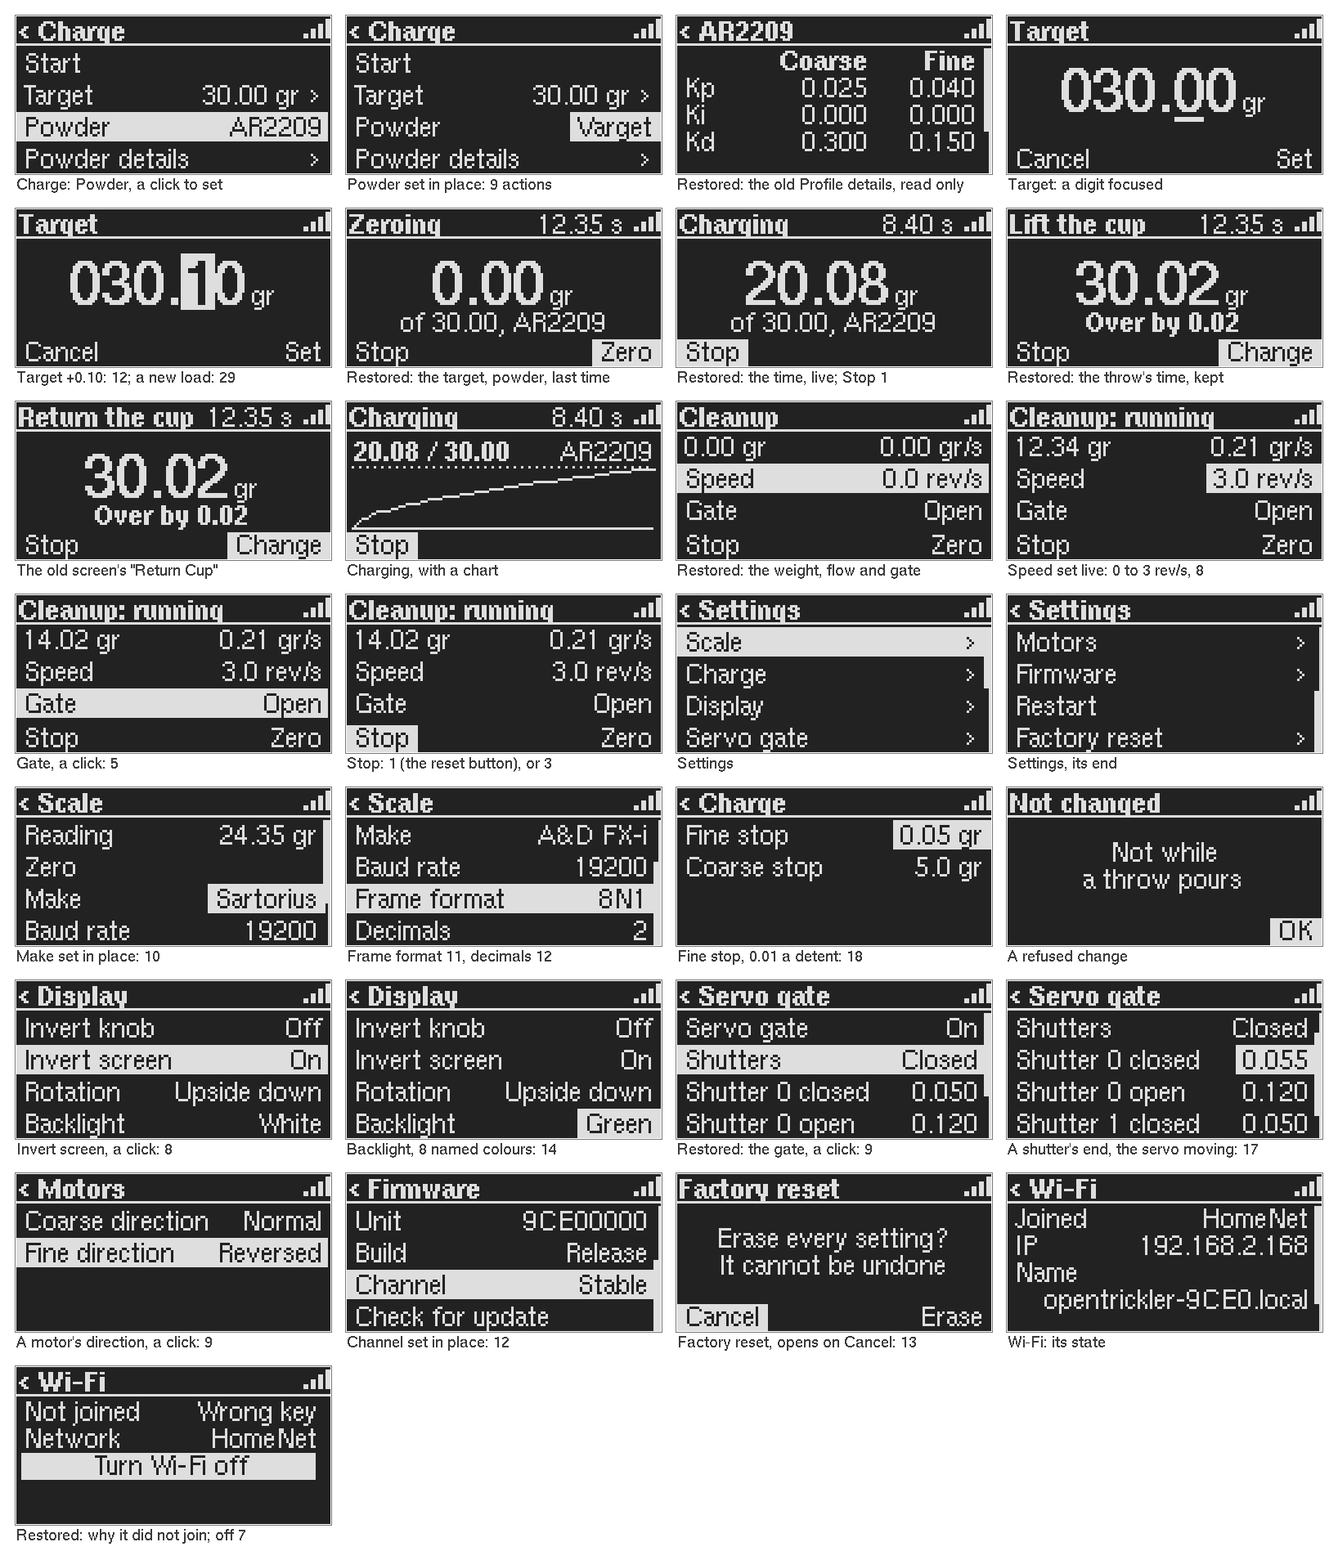
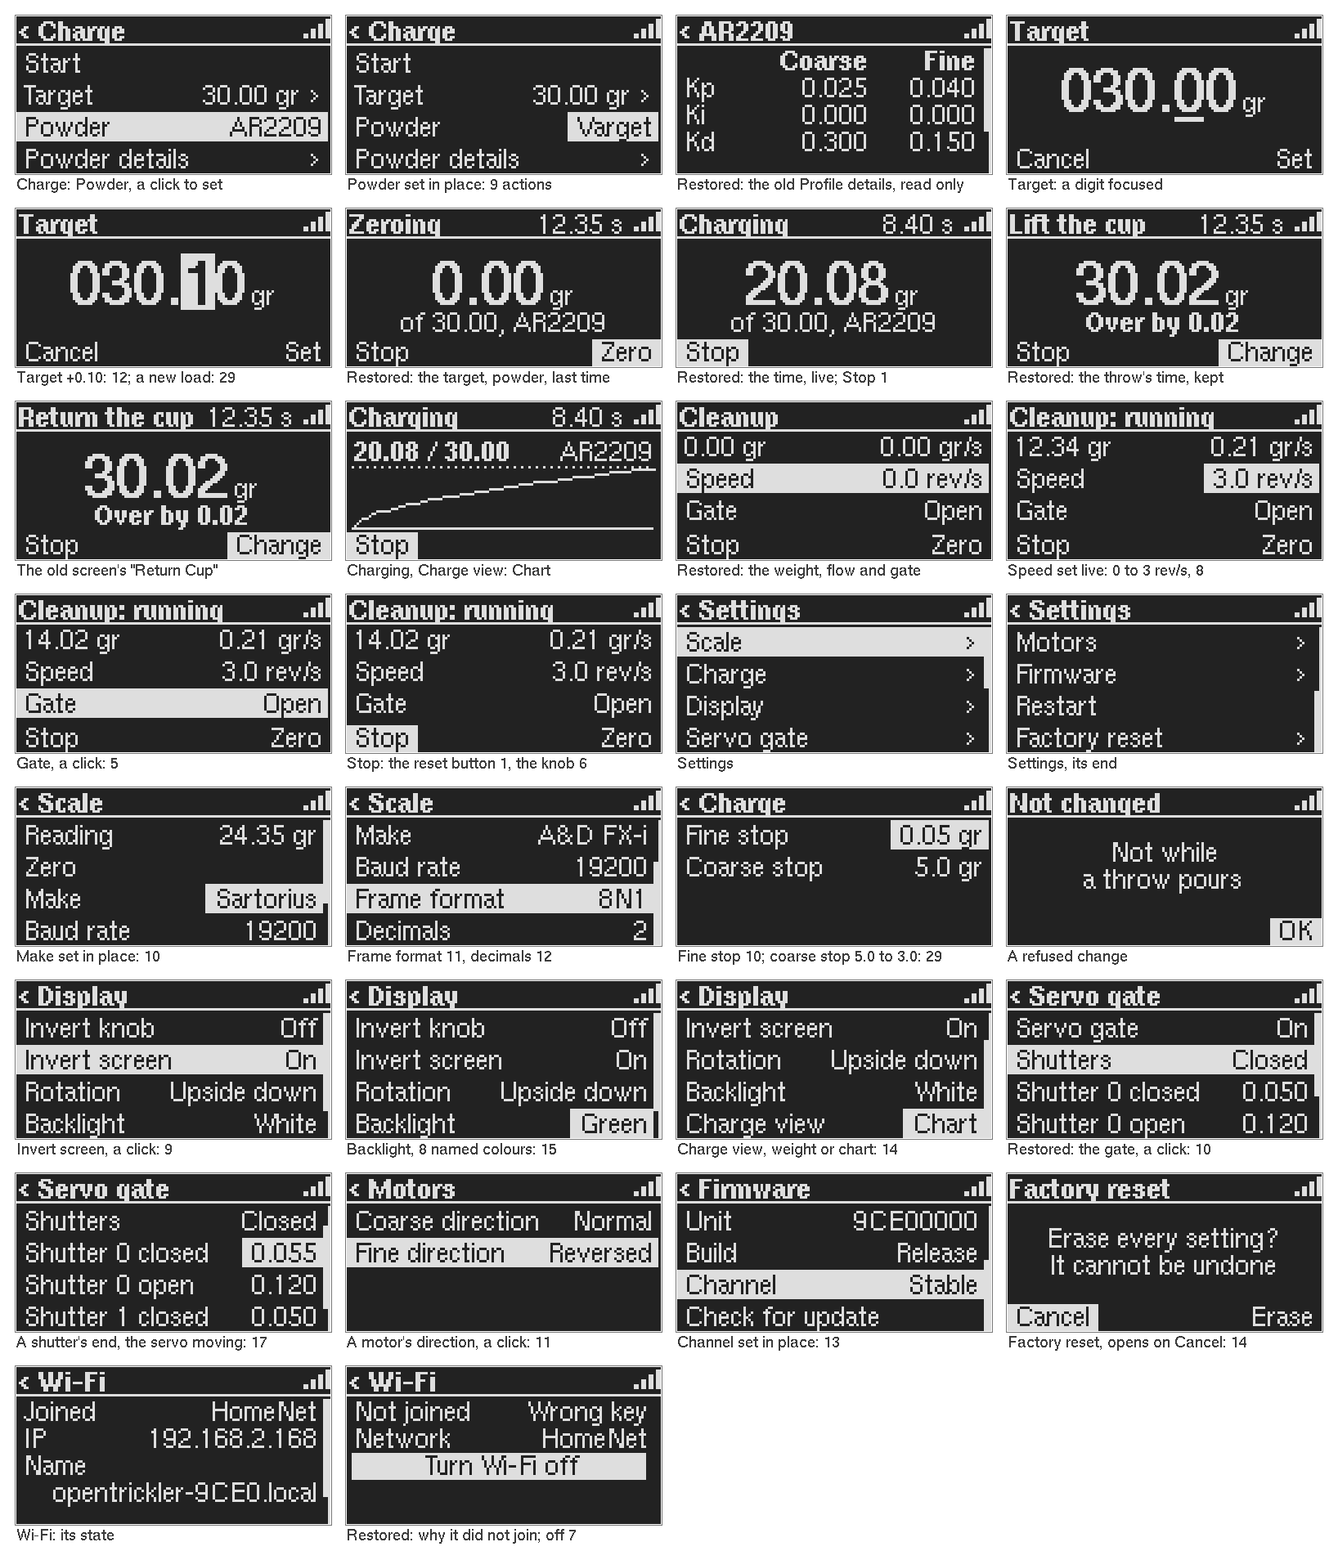
ADR-010: the chart as Settings > Display > Charge view; costs recounted on the mock's tree

Changed region(s): [[0.0, 0.6184, 0.9976, 0.9895], [0.1247, 0.6494, 0.2494, 0.7421]]

diff --git a/tools/ui_mock/knob_cost.py b/tools/ui_mock/knob_cost.py
@@ -59,48 +59,76 @@ def edit_text(text):
 
 # (what, need, method, the change, path to its row, edit cost)
 # need: S a session at the bench; W making the unit work without the web; T tuning or building, set once with the
-# web's data (or by ADR-009's tuning)
-MAIN_SETTINGS = 3
+# web's data (or by ADR-009's tuning). The paths follow the mock's tree (parity_12864.py), each page's rows in order:
+MAIN = {"Charge": 0, "Cleanup": 1, "Wi-Fi": 2, "Settings": 3}
+CHARGE = {"Start": 0, "Target": 1, "Powder": 2, "Powder details": 3}
+CLEANUP = {"Speed": 0, "Gate": 1, "Stop": 2, "Zero": 3}         # behind the cup's check, its Start a click
+SETTINGS = {"Scale": 0, "Charge": 1, "Display": 2, "Servo gate": 3, "Motors": 4, "Firmware": 5, "Restart": 6,
+            "Factory reset": 7}
+SCALE = {"Zero": 0, "Make": 1, "Baud rate": 2, "Frame format": 3, "Decimals": 4}      # its Reading is read only
+CHARGE_SETTINGS = {"Fine stop": 0, "Coarse stop": 1}
+DISPLAY = {"Invert knob": 0, "Invert screen": 1, "Rotation": 2, "Backlight": 3, "Charge view": 4}
+GATE = {"Servo gate": 0, "Shutters": 1, "Shutter 0 closed": 2}
+MOTORS = {"Coarse direction": 0, "Fine direction": 1}
+FIRMWARE = {"Channel": 0, "Check for update": 1}                # its facts are read only
+WIFI_OFF = 3                                                    # Wi-Fi's card: the turns to its button at the end
+S = MAIN["Settings"]
+
+
+def settings(page, row=None):
+    return [S, SETTINGS[page]] + ([] if row is None else [row])
+
+
 ROWS = [
-    ("Target, a small change", "S", "digits", "30.00 to 30.10", [0, 1], edit_digits("03000", "03010")),
-    ("Target, a new load", "S", "digits", "24.35 to 42.00", [0, 1], edit_digits("02435", "04200")),
-    ("Powder (8 profiles)", "S", "choice", "1 to 5", [0, 2], edit_choice(8, 1, 5)),
-    ("Start a charge", "S", "action", "", [0, 0], 1 + 1),
+    ("Target, a small change", "S", "digits", "30.00 to 30.10", [MAIN["Charge"], CHARGE["Target"]],
+     edit_digits("03000", "03010")),
+    ("Target, a new load", "S", "digits", "24.35 to 42.00", [MAIN["Charge"], CHARGE["Target"]],
+     edit_digits("02435", "04200")),
+    ("Powder (8 profiles)", "S", "choice", "1 to 5", [MAIN["Charge"], CHARGE["Powder"]], edit_choice(8, 1, 5)),
+    ("Powder details, to read", "S", "page", "", [MAIN["Charge"], CHARGE["Powder details"]], 1),
+    ("Start a charge", "S", "action", "", [MAIN["Charge"], CHARGE["Start"]], 1 + 1),
     ("Zero, in a charge", "S", "action", "", [], 1),
-    ("Stop, in a charge or cleanup", "S", "action", "", [], 1),
-    ("Cleanup's speed", "S", "step 1 rev/s", "0 to 3 rev/s", [1, 0, 0], edit_step(0, 3, 1)),
-    ("Cleanup's gate, open or closed", "S", "toggle", "", [1, 0, 1], 1),
-    ("Cleanup's zero", "S", "action", "", [1, 0, 2], 1),
-    ("Scale's make (9)", "W", "choice", "A&D to Sartorius", [MAIN_SETTINGS, 0, 1], edit_choice(9, 0, 7)),
-    ("Scale's baud rate (3)", "W", "choice", "19200 to 9600", [MAIN_SETTINGS, 0, 2], edit_choice(3, 2, 1)),
-    ("Scale's frame format (2)", "W", "choice", "8N1 to 7N1", [MAIN_SETTINGS, 0, 3], edit_choice(2, 0, 1)),
-    ("Decimals (2)", "W", "choice", "2 to 3", [MAIN_SETTINGS, 0, 4], edit_choice(2, 0, 1)),
-    ("Invert knob", "W", "toggle", "", [MAIN_SETTINGS, 1, 0], 1),
-    ("Invert screen", "W", "toggle", "", [MAIN_SETTINGS, 1, 1], 1),
-    ("Rotation (2)", "W", "choice", "", [MAIN_SETTINGS, 1, 2], edit_choice(2, 0, 1)),
-    ("Backlight colour (8 named)", "W", "choice", "white to green", [MAIN_SETTINGS, 1, 3], edit_choice(8, 0, 3)),
-    ("Servo gate on", "W", "toggle", "", [MAIN_SETTINGS, 2, 0], 1),
-    ("Servo gate open, close", "W", "action", "", [MAIN_SETTINGS, 2, 1], 1),
-    ("A shutter's end (the servo moves live)", "W", "step 0.001", "0.050 to 0.055", [MAIN_SETTINGS, 2, 3],
-     edit_step(0.050, 0.055, 0.001)),
-    ("A motor's direction", "W", "toggle", "", [MAIN_SETTINGS, 3, 0], 1),
-    ("Update channel (2)", "W", "choice", "", [MAIN_SETTINGS, 4, 0], edit_choice(2, 0, 1)),
-    ("Restart", "W", "action", "", [MAIN_SETTINGS, 5], 1),
-    ("Factory reset (opens on Cancel)", "W", "action", "", [MAIN_SETTINGS, 6], 1 + 1 + 1),
-    ("Wi-Fi on or off", "W", "toggle", "", [2, 0], 1),
-    # Tuning and building: costed where they would sit, Settings > their group > the field
-    ("Fine stop threshold", "T", "step 0.01 gr", "0.03 to 0.05", [MAIN_SETTINGS, 7, 0, 1],
+    ("Stop, in a charge or cleanup (the reset button)", "S", "action", "", [], 1),
+    ("Cleanup's speed", "S", "step 1 rev/s", "0 to 3 rev/s", [MAIN["Cleanup"], 0, CLEANUP["Speed"]],
+     edit_step(0, 3, 1)),
+    ("Cleanup's gate, open or closed", "S", "toggle", "", [MAIN["Cleanup"], 0, CLEANUP["Gate"]], 1),
+    ("Cleanup's zero", "S", "action", "", [MAIN["Cleanup"], 0, CLEANUP["Zero"]], 1),
+    ("Cleanup's Stop, by the knob", "S", "action", "", [MAIN["Cleanup"], 0, CLEANUP["Stop"]], 1),
+    ("Scale's make (9)", "W", "choice", "A&D to Sartorius", settings("Scale", SCALE["Make"]), edit_choice(9, 0, 7)),
+    ("Scale's baud rate (3)", "W", "choice", "19200 to 9600", settings("Scale", SCALE["Baud rate"]),
+     edit_choice(3, 2, 1)),
+    ("Scale's frame format (2)", "W", "choice", "8N1 to 7N1", settings("Scale", SCALE["Frame format"]),
+     edit_choice(2, 0, 1)),
+    ("Decimals (2)", "W", "choice", "2 to 3", settings("Scale", SCALE["Decimals"]), edit_choice(2, 0, 1)),
+    ("Fine stop threshold", "S", "step 0.01 gr", "0.03 to 0.05", settings("Charge", CHARGE_SETTINGS["Fine stop"]),
      edit_step(0.03, 0.05, 0.01)),
-    ("Coarse stop threshold", "T", "step 0.1 gr", "5.0 to 3.0", [MAIN_SETTINGS, 7, 0, 0], edit_step(5.0, 3.0, 0.1)),
-    ("Back-off turns", "T", "step 0.125", "0.25 to 0.5", [MAIN_SETTINGS, 7, 1, 2], edit_step(0.25, 0.5, 0.125)),
-    ("Precharge time", "T", "step 50 ms", "1000 to 1500 ms", [MAIN_SETTINGS, 7, 2, 1], edit_step(1000, 1500, 50)),
-    ("A motor's current", "T", "step 50 mA", "400 to 600 mA", [MAIN_SETTINGS, 3, 2], edit_step(400, 600, 50)),
-    ("A profile's Kp (digits)", "T", "digits", "0.0250 to 0.0300", [MAIN_SETTINGS, 8, 1, 1, 0],
-     edit_digits("00250", "00300")),
-    ("A profile's name", "T", "text", "AR2209", [MAIN_SETTINGS, 8, 1, 0], edit_text("AR2209")),
-    ("Wi-Fi network, picked from a scan", "W", "choice", "the 2nd found", [MAIN_SETTINGS, 9, 1], 1 + 1 + 1),
-    ("Wi-Fi key, 12 characters", "W", "text", "Trickle-2024", [MAIN_SETTINGS, 9, 2], edit_text("Trickle-2024")),
-    ("Update source, a URL", "T", "text", "http://192.168.2.13:8080/a/b", [MAIN_SETTINGS, 4, 1],
+    ("Coarse stop threshold", "S", "step 0.1 gr", "5.0 to 3.0", settings("Charge", CHARGE_SETTINGS["Coarse stop"]),
+     edit_step(5.0, 3.0, 0.1)),
+    ("Invert knob", "W", "toggle", "", settings("Display", DISPLAY["Invert knob"]), 1),
+    ("Invert screen", "W", "toggle", "", settings("Display", DISPLAY["Invert screen"]), 1),
+    ("Rotation (2)", "W", "choice", "", settings("Display", DISPLAY["Rotation"]), edit_choice(2, 0, 1)),
+    ("Backlight colour (8 named)", "W", "choice", "white to green", settings("Display", DISPLAY["Backlight"]),
+     edit_choice(8, 0, 3)),
+    ("Charge view (2): weight or chart", "S", "choice", "", settings("Display", DISPLAY["Charge view"]),
+     edit_choice(2, 0, 1)),
+    ("Servo gate on", "W", "toggle", "", settings("Servo gate", GATE["Servo gate"]), 1),
+    ("Servo gate open, close", "W", "toggle", "", settings("Servo gate", GATE["Shutters"]), 1),
+    ("A shutter's end (the servo moves live)", "W", "step 0.001", "0.050 to 0.055",
+     settings("Servo gate", GATE["Shutter 0 closed"]), edit_step(0.050, 0.055, 0.001)),
+    ("A motor's direction", "W", "toggle", "", settings("Motors", MOTORS["Fine direction"]), 1),
+    ("Update channel (2)", "W", "choice", "", settings("Firmware", FIRMWARE["Channel"]), edit_choice(2, 0, 1)),
+    ("Restart", "W", "action", "", [S, SETTINGS["Restart"]], 1),
+    ("Factory reset (opens on Cancel)", "W", "action", "", [S, SETTINGS["Factory reset"]], 1 + 1 + 1),
+    ("Wi-Fi on or off", "W", "action", "", [MAIN["Wi-Fi"], WIFI_OFF], 1),
+    # Not on the screen: costed where they would sit, Settings > a page of their own > the field
+    ("Back-off turns", "T", "step 0.125", "0.25 to 0.5", [S, 8, 2], edit_step(0.25, 0.5, 0.125)),
+    ("Precharge time", "T", "step 50 ms", "1000 to 1500 ms", [S, 8, 4], edit_step(1000, 1500, 50)),
+    ("A motor's current", "T", "step 50 mA", "400 to 600 mA", settings("Motors", 2), edit_step(400, 600, 50)),
+    ("A profile's Kp (digits)", "T", "digits", "0.0250 to 0.0300", [S, 8, 1, 0], edit_digits("00250", "00300")),
+    ("A profile's name", "T", "text", "AR2209", [S, 8, 1], edit_text("AR2209")),
+    ("Wi-Fi network, picked from a scan", "W", "choice", "the 2nd found", [S, 9, 1], 1 + 1 + 1),
+    ("Wi-Fi key, 12 characters", "W", "text", "Trickle-2024", [S, 9, 2], edit_text("Trickle-2024")),
+    ("Update source, a URL", "T", "text", "http://192.168.2.13:8080/a/b", settings("Firmware", 2),
      edit_text("http://192.168.2.13:8080/a/b")),
 ]
 

diff --git a/tools/ui_mock/parity_12864.py b/tools/ui_mock/parity_12864.py
@@ -50,7 +50,7 @@ def rows(panel, items, focus, first=0, total=None, editing=False, top=None, show
         if value:
             if idx == focus and editing:
                 width = m.TEXT.width(value) + 6
-                panel.rect(right - width + 3, row_top, width, m.ROW_H - 1)
+                panel.rect(right - width + 2, row_top, width, m.ROW_H - 1)
                 panel.text(m.TEXT, 0, base, value, lit=False, align="right", right=right)
             else:
                 panel.text(m.TEXT, 0, base, value, lit=not reverse, align="right", right=right)
@@ -196,7 +196,7 @@ def screens():
     p.text(m.TEXT, 0, 23, "AR2209", align="right", right=W - 3)
     chart(p, 26, 51, [min(1.0, (t / 40) ** 0.6 * 0.96) for t in range(41)], 1.0)
     m.softkeys(p, "Stop", "", focus="left")
-    add(p, "Charging, with a chart")
+    add(p, "Charging, Charge view: Chart")
 
     # --- A session: the cleanup
     p = Panel(); cleanup(p, "0.0 rev/s", "0.00 gr", "0.00 gr/s", "Open", "speed")
@@ -210,7 +210,7 @@ def screens():
     add(p, "Gate, a click: 5")
 
     p = Panel(); cleanup(p, "3.0 rev/s", "14.02 gr", "0.21 gr/s", "Open", "stop", title="Cleanup: running")
-    add(p, "Stop: 1 (the reset button), or 3")
+    add(p, "Stop: the reset button 1, the knob 6")
 
     # --- Settings: what the unit needs without the web
     p = Panel(); m.title(p, "Settings", back=True)
@@ -235,7 +235,7 @@ def screens():
 
     p = Panel(); m.title(p, "Charge", back=True)
     rows(p, [("Fine stop", "0.05 gr", False), ("Coarse stop", "5.0 gr", False)], 0, editing=True)
-    add(p, "Fine stop, 0.01 a detent: 18")
+    add(p, "Fine stop 10; coarse stop 5.0 to 3.0: 29")
 
     p = Panel(); m.title(p, "Not changed")
     m.message(p, "Not while", "a throw pours")
@@ -244,18 +244,23 @@ def screens():
 
     p = Panel(); m.title(p, "Display", back=True)
     rows(p, [("Invert knob", "Off", False), ("Invert screen", "On", False), ("Rotation", "Upside down", False),
-             ("Backlight", "White", False)], 1)
-    add(p, "Invert screen, a click: 8")
+             ("Backlight", "White", False)], 1, total=5)
+    add(p, "Invert screen, a click: 9")
 
     p = Panel(); m.title(p, "Display", back=True)
     rows(p, [("Invert knob", "Off", False), ("Invert screen", "On", False), ("Rotation", "Upside down", False),
-             ("Backlight", "Green", False)], 3, editing=True)
-    add(p, "Backlight, 8 named colours: 14")
+             ("Backlight", "Green", False)], 3, total=5, editing=True)
+    add(p, "Backlight, 8 named colours: 15")
+
+    p = Panel(); m.title(p, "Display", back=True)
+    rows(p, [("Invert screen", "On", False), ("Rotation", "Upside down", False), ("Backlight", "White", False),
+             ("Charge view", "Chart", False)], 3, first=1, total=5, editing=True)
+    add(p, "Charge view, weight or chart: 14")
 
     p = Panel(); m.title(p, "Servo gate", back=True)
     rows(p, [("Servo gate", "On", False), ("Shutters", "Closed", False), ("Shutter 0 closed", "0.050", False),
              ("Shutter 0 open", "0.120", False)], 1, total=6)
-    add(p, "Restored: the gate, a click: 9")
+    add(p, "Restored: the gate, a click: 10")
 
     p = Panel(); m.title(p, "Servo gate", back=True)
     rows(p, [("Shutters", "Closed", False), ("Shutter 0 closed", "0.055", False), ("Shutter 0 open", "0.120", False),
@@ -264,17 +269,17 @@ def screens():
 
     p = Panel(); m.title(p, "Motors", back=True)
     rows(p, [("Coarse direction", "Normal", False), ("Fine direction", "Reversed", False)], 1)
-    add(p, "A motor's direction, a click: 9")
+    add(p, "A motor's direction, a click: 11")
 
     p = Panel(); m.title(p, "Firmware", back=True)
     rows(p, [("Unit", "9CE00000", False), ("Build", "Release", False), ("Channel", "Stable", False),
              ("Check for update", "", False)], 2, first=3, total=7)
-    add(p, "Channel set in place: 12")
+    add(p, "Channel set in place: 13")
 
     p = Panel(); m.title(p, "Factory reset")
     m.message(p, "Erase every setting?", "It cannot be undone")
     m.softkeys(p, "Cancel", "Erase", focus="left")
-    add(p, "Factory reset, opens on Cancel: 13")
+    add(p, "Factory reset, opens on Cancel: 14")
 
     # --- Wi-Fi: its state, why a join failed, and on or off
     p = Panel(); m.title(p, "Wi-Fi", back=True)

diff --git a/docs/developments_plans/ADR-010-lvgl/menu_design.md b/docs/developments_plans/ADR-010-lvgl/menu_design.md
@@ -208,7 +208,7 @@ The owner, at the unit, on finding the servo gate gone: "My original ask from th
 2. **The cleanup as one system** (yes, as proposed). It has one value (the speed), one action (Stop), and the web's Zero and gate. As the target's editor: its screen a list, the speed, the weight and the flow in sight; the speed set by a click and the turn, live, and a second click; then Gate (open or closed, a click toggles), Zero, and Stop. No Run and no Pause: a speed of 0 is both.
 3. **The charge's screen** gets back the powder and the charge's time; the throw's number as this design had it.
 4. **Text by the knob for every string** (yes), a key of up to 63 characters and the source's 127 among them, for anyone without the web; the network list spares typing the name.
-5. **The weight's chart:** settled on the mock (the owner). A small chart of the throw on the charge's screen is possible (a 128 by 40 canvas, 640 bytes), but it competes with the figure read from 50 cm; the mock draws the screen with it and without it.
+5. **The weight's chart:** a choice of the person's, Settings › Display › Charge view, Weight or Chart (the owner, 2026-11-17, asked how it is switched; 14 actions, stored, and on the web as every setting). With Weight the charge's screen leads with the figure read from 50 cm; with Chart, a chart of the throw (a 128 by 40 canvas, 640 bytes) under the weight and the target. Stored in the display's struct, in its last byte of filler: on a unit that is updated it starts as that byte was until it is set once, the class of fault handed on to ADR-006. The charge's struct has no filler at its end, and a field there would reset every charge setting on every unit.
 
 Then the look of each new page and editor is mocked and settled before it is built (design gates before build gates): [mockups/parity_12864.png](mockups/parity_12864.png), drawn by `tools/ui_mock/parity_12864.py`. The mock found three labels too long beside their value ("Back-off speed", "Minimum speed", "Sense resistor"): a short label goes into the tables (and so the schema) where a group already says the rest ("Speed" under Coarse stop). A colour is a page of three numbers, red, green and blue, each set by the number editor: as one figure it does not fit.
 
@@ -236,41 +236,46 @@ The rest is **T, tuning and building:** set once, against the throws' figures an
 | Target, a small change | S | digits | 30.00 to 30.10 | 2 | 10 | 12 |
 | Target, a new load | S | digits | 24.35 to 42.00 | 2 | 27 | 29 |
 | Powder (8 profiles) | S | choice | 1 to 5 | 3 | 6 | 9 |
+| Powder details, to read | S | page |  | 4 | 1 | 5 |
 | Start a charge | S | action |  | 1 | 2 | 3 |
 | Zero, in a charge | S | action |  | 0 | 1 | 1 |
-| Stop, in a charge or cleanup | S | action |  | 0 | 1 | 1 |
+| Stop, in a charge or cleanup (the reset button) | S | action |  | 0 | 1 | 1 |
 | Cleanup's speed | S | step 1 rev/s | 0 to 3 rev/s | 3 | 5 | 8 |
 | Cleanup's gate, open or closed | S | toggle |  | 4 | 1 | 5 |
-| Cleanup's zero | S | action |  | 5 | 1 | 6 |
+| Cleanup's zero | S | action |  | 6 | 1 | 7 |
+| Cleanup's Stop, by the knob | S | action |  | 5 | 1 | 6 |
 | Scale's make (9) | W | choice | A&D to Sartorius | 6 | 4 | 10 |
 | Scale's baud rate (3) | W | choice | 19200 to 9600 | 7 | 3 | 10 |
 | Scale's frame format (2) | W | choice | 8N1 to 7N1 | 8 | 3 | 11 |
 | Decimals (2) | W | choice | 2 to 3 | 9 | 3 | 12 |
-| Invert knob | W | toggle |  | 6 | 1 | 7 |
-| Invert screen | W | toggle |  | 7 | 1 | 8 |
-| Rotation (2) | W | choice |  | 8 | 3 | 11 |
-| Backlight colour (8 named) | W | choice | white to green | 9 | 5 | 14 |
-| Servo gate on | W | toggle |  | 7 | 1 | 8 |
-| Servo gate open, close | W | action |  | 8 | 1 | 9 |
+| Fine stop threshold | S | step 0.01 gr | 0.03 to 0.05 | 6 | 4 | 10 |
+| Coarse stop threshold | S | step 0.1 gr | 5.0 to 3.0 | 7 | 22 | 29 |
+| Invert knob | W | toggle |  | 7 | 1 | 8 |
+| Invert screen | W | toggle |  | 8 | 1 | 9 |
+| Rotation (2) | W | choice |  | 9 | 3 | 12 |
+| Backlight colour (8 named) | W | choice | white to green | 10 | 5 | 15 |
+| Charge view (2): weight or chart | S | choice |  | 11 | 3 | 14 |
+| Servo gate on | W | toggle |  | 8 | 1 | 9 |
+| Servo gate open, close | W | toggle |  | 9 | 1 | 10 |
 | A shutter's end (the servo moves live) | W | step 0.001 | 0.050 to 0.055 | 10 | 7 | 17 |
-| A motor's direction | W | toggle |  | 8 | 1 | 9 |
-| Update channel (2) | W | choice |  | 9 | 3 | 12 |
-| Restart | W | action |  | 9 | 1 | 10 |
-| Factory reset (opens on Cancel) | W | action |  | 10 | 3 | 13 |
-| Wi-Fi on or off | W | toggle |  | 3 | 1 | 4 |
-| Fine stop threshold | T | step 0.01 gr | 0.03 to 0.05 | 14 | 4 | 18 |
-| Coarse stop threshold | T | step 0.1 gr | 5.0 to 3.0 | 13 | 22 | 35 |
-| Back-off turns | T | step 0.125 | 0.25 to 0.5 | 16 | 4 | 20 |
-| Precharge time | T | step 50 ms | 1000 to 1500 ms | 16 | 12 | 28 |
-| A motor's current | T | step 50 mA | 400 to 600 mA | 10 | 6 | 16 |
-| A profile's Kp (digits) | T | digits | 0.0250 to 0.0300 | 17 | 17 | 34 |
-| A profile's name | T | text | AR2209 | 15 | 131 | 146 |
+| A motor's direction | W | toggle |  | 10 | 1 | 11 |
+| Update channel (2) | W | choice |  | 10 | 3 | 13 |
+| Restart | W | action |  | 10 | 1 | 11 |
+| Factory reset (opens on Cancel) | W | action |  | 11 | 3 | 14 |
+| Wi-Fi on or off | W | action |  | 6 | 1 | 7 |
+| Back-off turns | T | step 0.125 | 0.25 to 0.5 | 15 | 4 | 19 |
+| Precharge time | T | step 50 ms | 1000 to 1500 ms | 17 | 12 | 29 |
+| A motor's current | T | step 50 mA | 400 to 600 mA | 11 | 6 | 17 |
+| A profile's Kp (digits) | T | digits | 0.0250 to 0.0300 | 15 | 17 | 32 |
+| A profile's name | T | text | AR2209 | 14 | 131 | 145 |
 | Wi-Fi network, picked from a scan | W | choice | the 2nd found | 15 | 3 | 18 |
 | Wi-Fi key, 12 characters | W | text | Trickle-2024 | 16 | 180 | 196 |
-| Update source, a URL | T | text | http://192.168.2.13:8080/a/b | 10 | 361 | 371 |
+| Update source, a URL | T | text | http://192.168.2.13:8080/a/b | 12 | 361 | 373 |
+
+*The paths follow the mock's tree (`knob_cost.py` names each page's rows in order); recounted 2026-11-17 after the mock was redrawn.*
 
 **What it shows:**
-- Everything needed in a session, or to get the unit working without the web, costs 1 to 17 actions, but a new load's target (29): a choice, a toggle, an action or a few steps, never deeper than three levels.
+- Everything needed in a session, or to get the unit working without the web, costs 1 to 17 actions, but a new load's target and a large change of the coarse stop (29 each): a choice, a toggle, an action or a few steps, never deeper than three levels.
 - Text costs 131 to 371 actions: a profile's name, the Wi-Fi key, the update's source. That is too hard, so **no text is typed at the knob**, which reverses the earlier "text by the knob for every string".
 - The tuning values can be changed (16 to 35 actions), but are not needed at the unit.
 
@@ -298,7 +303,7 @@ The rest is **T, tuning and building:** set once, against the throws' figures an
 - the cleanup's Stop below the fold, three turns away: it stays a softkey, as the charge's.
 
 **The borderlines, settled by the owner (2026-11-17):**
-- **The fine and coarse stop thresholds are on the screen,** Settings › Charge, stepped 0.01 gr and 0.1 gr in their rows (18 and 35 actions). A person who only uses the screen sees their effect ("Over by 0.04") and has no other way to change them. The rest of the tuning stays on the web.
+- **The fine and coarse stop thresholds are on the screen,** Settings › Charge, stepped 0.01 gr and 0.1 gr in their rows (10 and 29 actions). A person who only uses the screen sees their effect ("Over by 0.04") and has no other way to change them. The rest of the tuning stays on the web.
 - **The profiles' names stay on the web.** The screen chooses a profile by the name the web gave it, or "Profile n". A list of known powders (about 15 actions) was offered, and declined.
 - **A motor's current stays on the web,** with the rest of the build settings: a wrong current can overheat a driver.
 
